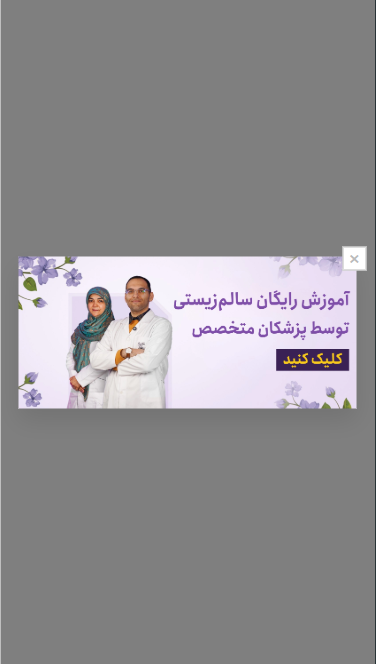
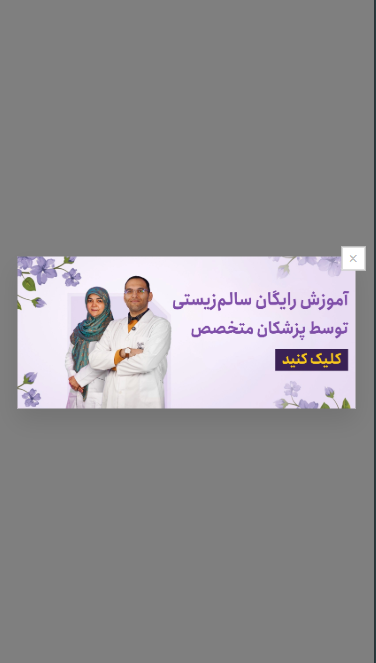
refactor close button style and change preview images

diff --git a/style.css b/style.css
@@ -44,9 +44,9 @@
     background: white;
     color: #bbb;
     border: 1px solid #bbb;
-    width: 24px;
-    height: 24px;
-    font-size: 20px;
+    width: 48px;
+    height: 48px;
+    font-size: 32px;
     cursor: pointer;
     display: flex;
     align-items: center;
@@ -64,4 +64,13 @@
     max-width: 100%;
     height: auto;
     display: block;
+}
+
+/* Mobile styles */
+@media screen and (max-width: 768px) {
+    #close-popup {
+        width: 24px;
+        height: 24px;
+        font-size: 16px;
+    }
 }
